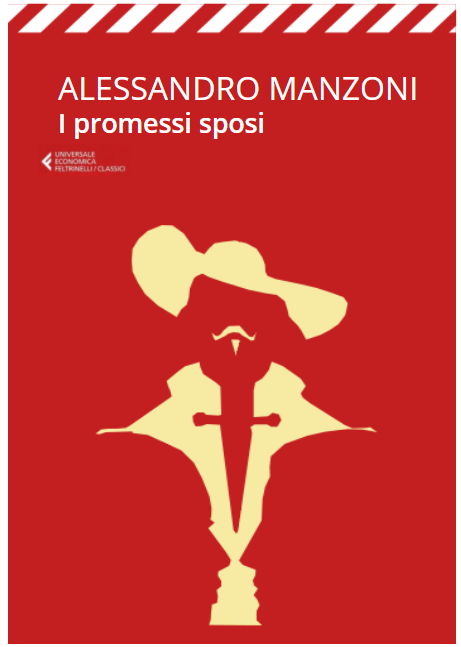
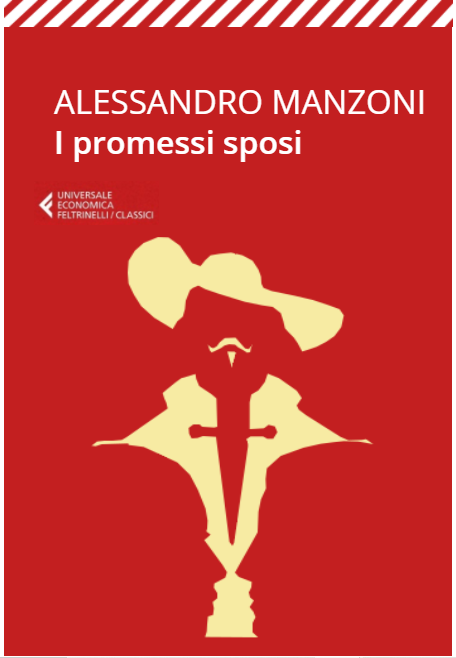
h

diff --git a/file definitivi/stylesheet-fixed-properties.css b/file definitivi/stylesheet-fixed-properties.css
@@ -5,16 +5,17 @@
   margin-top:3%;
   margin-bottom: 3%;
   margin-left: 24%;
-  margin-right: 20%;}      
+  margin-right: 20%;
+}      
   /*useful properties to maintain fixed dimensions */
   
-
 
 .cover-img{width:17.78cm;
           height: 25.4cm;}
  /*dimension of the paper book cover */
 
-/* ----------- Kindle Fire HD da 8'' 8.9" 10', 13''----------- */
+
+/* ----------- Kindle Fire HD da 8'' and eReader of 8.9" 10', 13''----------- */
 @media only screen 
   and (min-width: 1200px) 
   and (max-width: 1600px) 
@@ -41,6 +42,18 @@
 
                                           }
 
+/*  Media Query for  small Tablets, 9.7'' 10.2', 10.5'' and eReaders of 6'', 7'', */ 
+@media only screen and (max-width: 760px) {.cover-img{text-align:center;
+  width:100%;
+}
+
+.book-cover{margin-top: 19%;
+margin-left: -2%;
+margin-right:auto;
+
+ }
+}
+
 
 /* Extra small devices (phones, 600px and down) Most of the Smartphones Mobiles (Portrait) */
 @media only screen and (max-width: 600px) { .cover-img {width:100%;
@@ -55,20 +68,6 @@
                                           }
 
                                           
-/* Medium devices (landscape tablets, 768px and up)  Media Query for  small Tablets, 9.7'' 10.2', 10.5''  and kindle of 6'', 7'', */ 
-@media only screen and (max-width: 760px) {.cover-img{text-align:center;
-                                                      width:100%;
-                                                      
-                                                      
-                                                    }
-
-                                          .book-cover{margin-top: 19%;
-                                                    margin-left: -2%;
-                                                    margin-right:auto;
-                                                    
-                                                     }
-                                           }
-
 
 
 

diff --git a/index.html b/index.html
@@ -325,17 +325,17 @@ src: url('font/OpenSans-SemiBold.ttf') format('truetype');}
 .decoration{position: absolute; 
            content: url(img/feltrinelli-decoration.png);
            width: auto;
-           height: 9.3%;
+           height: 4.25%;
            margin-top:-3.2%;
            }        
 						
 .author{font-family: OpenSans-Regular;
-        font-size: 3em;
+        font-size: 3.1em;
         text-transform: uppercase;
        }
 						
 .title{font-family: OpenSans-SemiBold;
-       font-size: 2.5em;
+       font-size: 3em;
        margin-top: -10%;
       }
 					
@@ -345,16 +345,17 @@ src: url('font/OpenSans-SemiBold.ttf') format('truetype');}
 						
 .text-cover{position: absolute; 
            white-space: nowrap;
-           margin-top:6%;
+           margin-top:2%;
            margin-left:10%;
            color:white;
            }
 						
 .logo{content: url(img/logo-feltrinelli.png);
       position: absolute;
-      background-size: 60% 60%;
-      margin-top:-100%; 
-      margin-left:6%;
+      background-size: 70% 70%;
+      margin-top:-95%; 
+	  margin-left:6%;
+	  width:25%;
      }
 						
 .cover-img{background-image: url(img/feltrinelli2.png);
@@ -373,7 +374,8 @@ src: url('font/OpenSans-SemiBold.ttf') format('truetype');}
                                                 } 
 															
 						
-@media (max-width: 600px){.logo{width:30%;}
+@media (max-width: 760px){.logo{width:30%;}
+                          .decoration{height: 4.54%;}
                          }
 						
 																

diff --git a/file definitivi/stylesheet-feltrinelli.css b/file definitivi/stylesheet-feltrinelli.css
@@ -12,17 +12,17 @@
 .decoration{position: absolute; 
             content: url(img/feltrinelli-decoration.png);
             width: auto;
-            height: 9.25%;
+            height: 4.25%;
             margin-top:-3.2%;
            }        
 
 .author{font-family: OpenSans-Regular;
-        font-size: 3em;
+        font-size: 3.1em;
         text-transform: uppercase;
         }
 
 .title{font-family: OpenSans-SemiBold;
-       font-size: 2.5em;
+       font-size: 3em;
        margin-top: -10%;
       }
 
@@ -32,16 +32,17 @@
 
 .text-cover{position: absolute; 
            white-space: nowrap;
-           margin-top:6%;
+           margin-top:2%;
            margin-left:10%;
            color:white;
            }
 
 .logo{content: url(img/logo-feltrinelli.png);
       position: absolute;
-      background-size: 60% 60%;
-      margin-top:-100%;
+      background-size: 70% 70%;
+      margin-top:-95%;
       margin-left:6%;
+      width: 25%;
      }
 
 .cover-img{background-image: url(img/feltrinelli2.png);
@@ -62,7 +63,7 @@
                                     
 
 @media (max-width: 760px){.logo{width:30%;}
-.decoration{height: 10.35%;
+.decoration{height: 4.54%;
                         }                        }
 
                                         

diff --git a/file definitivi/book cover.html b/file definitivi/book cover.html
@@ -3,8 +3,9 @@
         <meta charset="utf-8">
         <title> Book cover </title>
         <meta name="viewport" content="width=device-width, initial-scale=1.0, user-scalable=yes">
+        <link rel="stylesheet" type="text/css" href="stylesheet-feltrinelli.css">
+         <!----name of the css file containing the properties that the designer wants to edit-->
 
-        <link rel="stylesheet" type="text/css" href="stylesheet-mia.css"> <!----name of the css file containing the properties that the designer wants to edit-->
         <link rel="stylesheet" type="text/css" href="stylesheet-fixed-properties.css"> 
       
     </head>
@@ -12,14 +13,12 @@
    
     <div class="book-cover">
         <div class="decoration"></div>
-        <div class="text-cover">
-        
+        <div class="text-cover">         
         <p class="author"> Alessandro Manzoni</p>
         <p class="title">I promessi sposi</p>
         <p class="curator">A cura di Sandro Invidia</p>
         <p class="introduction">Introduzione di Salvatore Silvano Nigro</p>
         <p class="specification">Con le illustrazioni originali di Francesco Gonin</p>
-
         </div>
     <div class="cover-img"></div>
     <div class="logo"></div>
